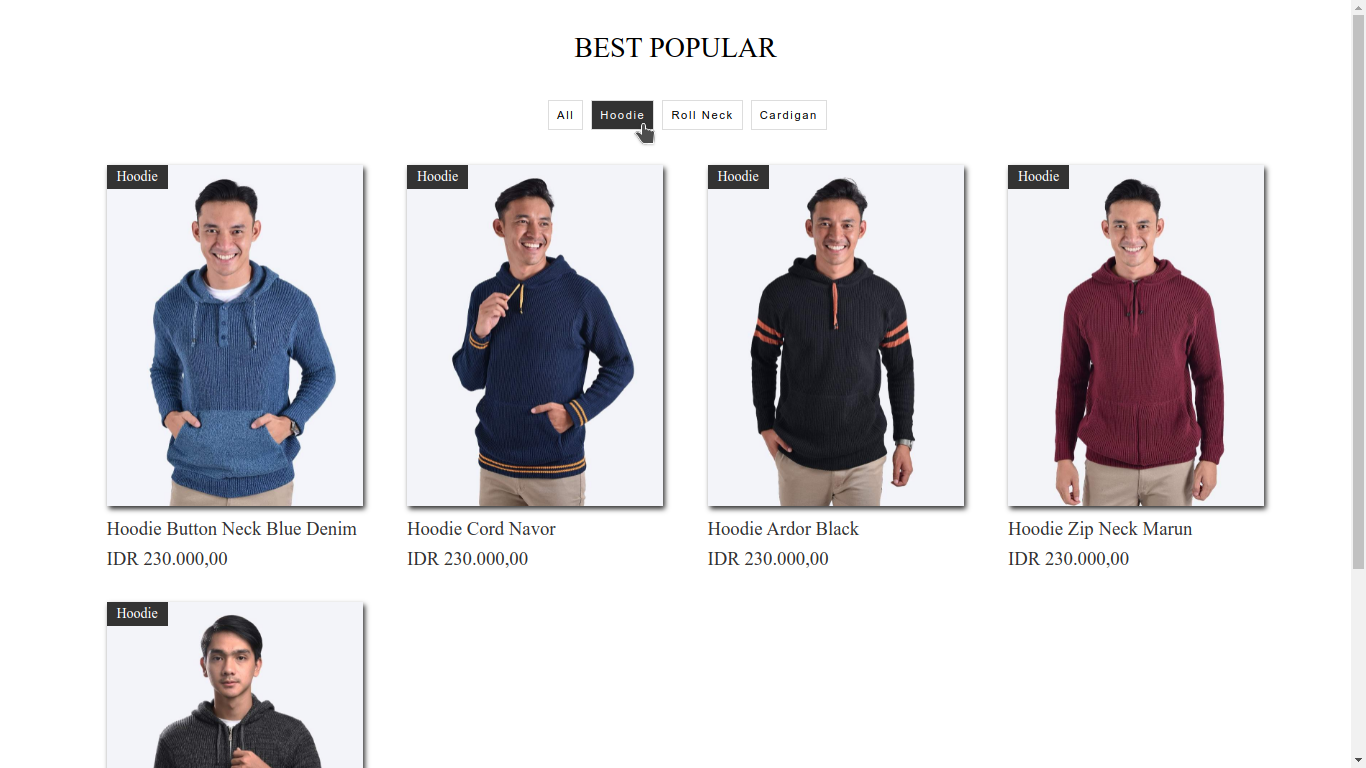
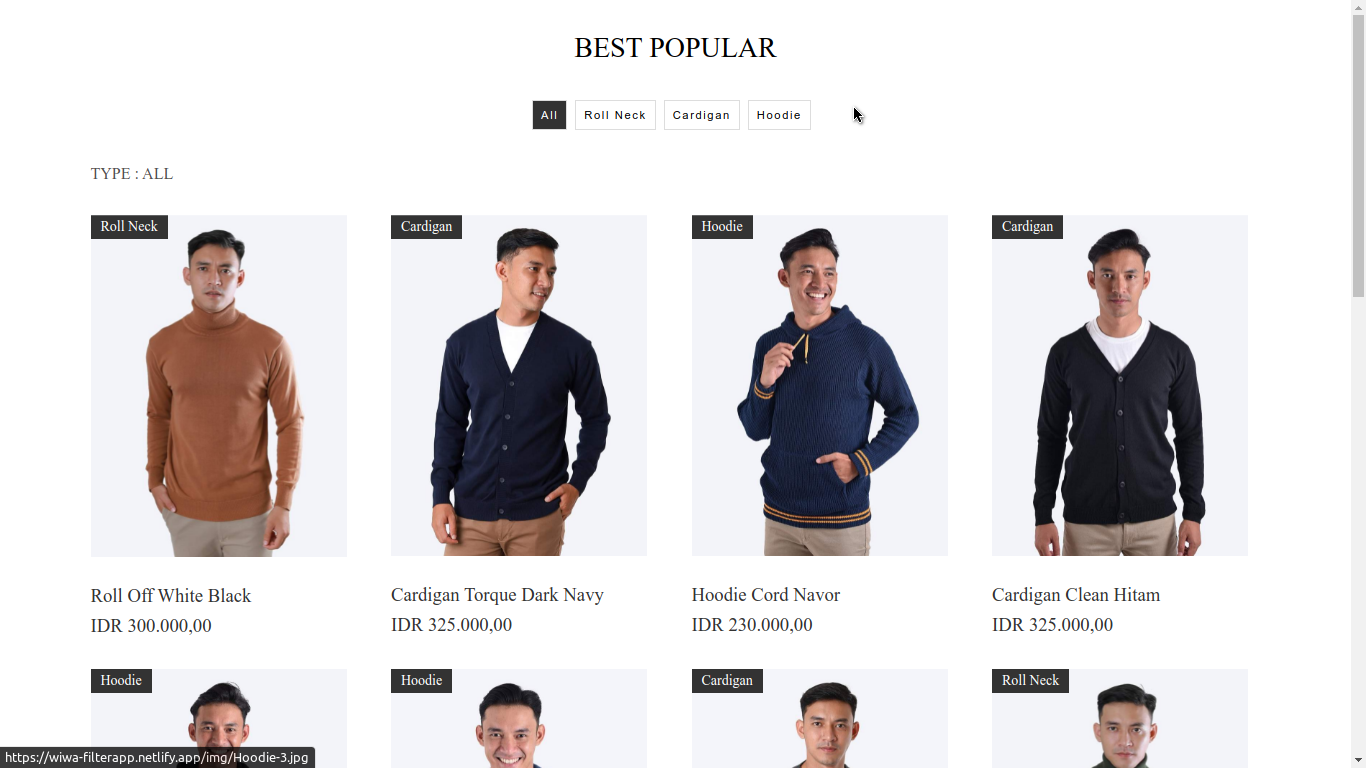
update syntax 19 may 09:59

diff --git a/src/collections.js b/src/collections.js
@@ -1,19 +1,17 @@
 const collections = [
-  // hoodie
   {
     id: 1,
-    img: './img/Hoodie-1.jpg',
-    title: 'hoodie button neck blue denim',
-    price: '230.000,00',
-    category: 'Hoodie',
-    link: 'https://www.gomuda.co/collections/hoodie/products/hoodie-button-neck-blue-denim',
+    img: './img/RollNeck-3.jpg',
+    title: 'roll off white black',
+    price: '300.000,00',
+    category: 'Roll Neck',
   },
   {
     id: 2,
-    img: './img/RollNeck-4.jpg',
-    title: 'roll brown sugar',
-    price: '300.000,00',
-    category: 'Roll Neck',
+    img: './img/Cardigan-3.jpg',
+    title: 'cardigan torque dark navy',
+    price: '325.000,00',
+    category: 'Cardigan',
   },
 
   {
@@ -38,13 +36,14 @@ const collections = [
     price: '230.000,00',
     category: 'Hoodie',
   },
-  // cardigan
+
   {
     id: 6,
-    img: './img/Cardigan-1.jpg',
-    title: 'cardigan torque black',
-    price: '325.000,00',
-    category: 'Cardigan',
+    img: './img/Hoodie-1.jpg',
+    title: 'hoodie button neck blue denim',
+    price: '230.000,00',
+    category: 'Hoodie',
+    link: 'https://www.gomuda.co/collections/hoodie/products/hoodie-button-neck-blue-denim',
   },
   {
     id: 7,
@@ -55,11 +54,12 @@ const collections = [
   },
   {
     id: 8,
-    img: './img/Cardigan-3.jpg',
-    title: 'cardigan torque dark navy',
-    price: '325.000,00',
-    category: 'Cardigan',
+    img: './img/RollNeck-4.jpg',
+    title: 'roll brown sugar',
+    price: '300.000,00',
+    category: 'Roll Neck',
   },
+
   {
     id: 9,
     img: './img/Hoodie-4.jpg',
@@ -68,7 +68,6 @@ const collections = [
     category: 'Hoodie',
   },
 
-  // RollNeck
   {
     id: 10,
     img: './img/RollNeck-1.jpg',
@@ -85,10 +84,10 @@ const collections = [
   },
   {
     id: 12,
-    img: './img/RollNeck-3.jpg',
-    title: 'roll off white black',
-    price: '300.000,00',
-    category: 'Roll Neck',
+    img: './img/Cardigan-1.jpg',
+    title: 'cardigan torque black',
+    price: '325.000,00',
+    category: 'Cardigan',
   },
 
   {

diff --git a/src/index.css b/src/index.css
@@ -53,15 +53,11 @@ a {
   width: 16rem;
   position: relative;
   cursor: pointer;
-  transition: all 0.3s linear;
+  overflow: hidden;
 }
 
 .picture-info {
   max-width: 16rem;
-}
-
-.img-container:hover {
-  transform: scale(1.02);
 }
 
 .category {
@@ -78,8 +74,12 @@ a {
   max-width: 100%;
   max-height: 100%;
   object-fit: cover;
-  box-shadow: 2px 3px 5px #333;
   margin-bottom: 0.5rem;
+  transition: all 0.2s linear;
+}
+
+.shirt:hover {
+  transform: scale(1.3);
 }
 
 .title {
@@ -96,6 +96,7 @@ a {
   display: flex;
   justify-content: center;
   margin-bottom: 2.2rem;
+  position: relative;
 }
 
 .btn {
@@ -116,10 +117,39 @@ a {
   color: #fff;
 }
 
+/* title-category */
+.title-category {
+  margin: 2rem auto;
+}
+.title-category h4 {
+  text-transform: uppercase;
+  font-weight: 300;
+  color: rgb(82, 79, 79);
+  margin-bottom: 0.25rem;
+}
+
+.title-category .underline {
+  border-bottom: 2px double #ddd;
+  width: 7.5rem;
+}
+
+.active-btn {
+  background: #333;
+  color: #fff;
+}
+
 @media (min-width: 375px) {
   .btn {
     font-size: 0.7rem;
     padding: 0.5rem;
+  }
+  .menu-picture {
+    display: grid;
+    grid-template-columns: 1fr 1fr;
+    gap: 1rem;
+  }
+  .img-container {
+    width: 200px;
   }
 }
 
@@ -128,4 +158,37 @@ a {
   .section-center {
     grid-template-columns: repeat(4, 1fr);
   }
+  .menu-picture {
+    grid-template-columns: none;
+  }
+  .img-container {
+    width: 16rem;
+  }
+}
+
+/* animation */
+@keyframes circle-in-center {
+  from {
+    clip-path: circle(0%);
+  }
+  to {
+    clip-path: circle(125%);
+  }
+}
+
+[transition-style='in:circle:center'] {
+  animation: 10s cubic-bezier(0.25, 1, 0.3, 1) circle-in-center both;
+}
+
+@keyframes wipe-in-bottom-right {
+  from {
+    clip-path: polygon(0 0, 0 0, 0 0, 0 50%);
+  }
+  to {
+    clip-path: polygon(-50% 0%, 200% 0, 0 200%, 0 -50%);
+  }
+}
+
+[transition-style='in:wipe:bottom-right'] {
+  animation: 5s cubic-bezier(0.25, 1, 0.3, 1) wipe-in-bottom-right both;
 }

diff --git a/src/Components/CategoryItem.js b/src/Components/CategoryItem.js
@@ -1,20 +1,30 @@
-import React from 'react';
+import React, { useState } from 'react';
 
 function CategoryItem({ showAllCategories, filterShirt }) {
+  const [value, setValue] = useState(0);
+
   return (
-    <div className='button-container section'>
-      {showAllCategories.map((category, index) => {
-        return (
-          <button
-            className='btn'
-            key={index}
-            onClick={() => filterShirt(category)}
-          >
-            {category}
-          </button>
-        );
-      })}
-    </div>
+    <>
+      <div className='button-container'>
+        {showAllCategories.map((category, index) => {
+          return (
+            <button
+              className={`btn ${index === value && `active-btn`}`}
+              onClick={() => {
+                filterShirt(category);
+                setValue(index);
+              }}
+            >
+              {category}
+            </button>
+          );
+        })}
+      </div>
+      <div className='title-category'>
+        <h4>type : {showAllCategories[value]}</h4>
+        <div className='underline'></div>
+      </div>
+    </>
   );
 }
 

diff --git a/src/App.js b/src/App.js
@@ -11,6 +11,7 @@ const showAllCategories = [
 function App() {
   const [menu, setMenu] = useState(collections);
   const [categories, setCategories] = useState(showAllCategories);
+  const [index, setIndex] = useState([]);
 
   const filterShirt = (category) => {
     if (category === 'All') {
@@ -25,9 +26,10 @@ function App() {
   };
 
   return (
-    <main class='section'>
+    <main class='section' transition-style='in:circle:center'>
       <div className='main-title'>
         <h2>best popular</h2>
+        {categories[index]}
       </div>
       <div className='menu'>
         <CategoryItem

diff --git a/src/Components/MenuItem.js b/src/Components/MenuItem.js
@@ -6,8 +6,12 @@ function MenuItem({ menu }) {
       {menu.map((list_menu) => {
         const { link, id, img, title, price, category } = list_menu;
         return (
-          <a href={link}>
-            <article className='menu-picture' key={id}>
+          <a href={img}>
+            <article
+              className='menu-picture'
+              key={id}
+              transition-style='in:wipe:bottom-right'
+            >
               <div className='img-container'>
                 <img src={img} alt='' className='shirt' />
                 <p className='category'>{category}</p>
